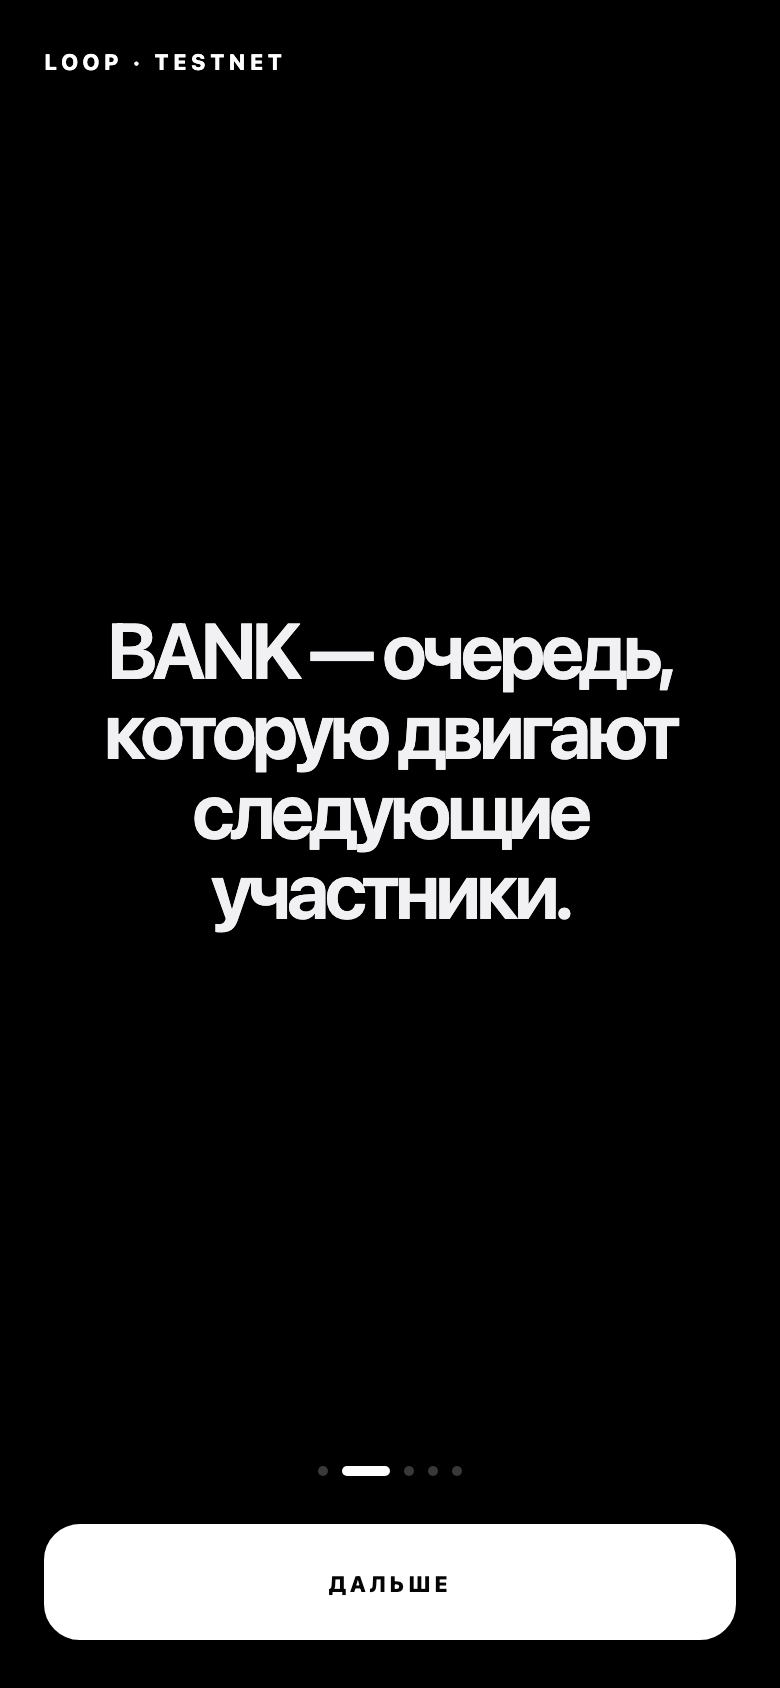
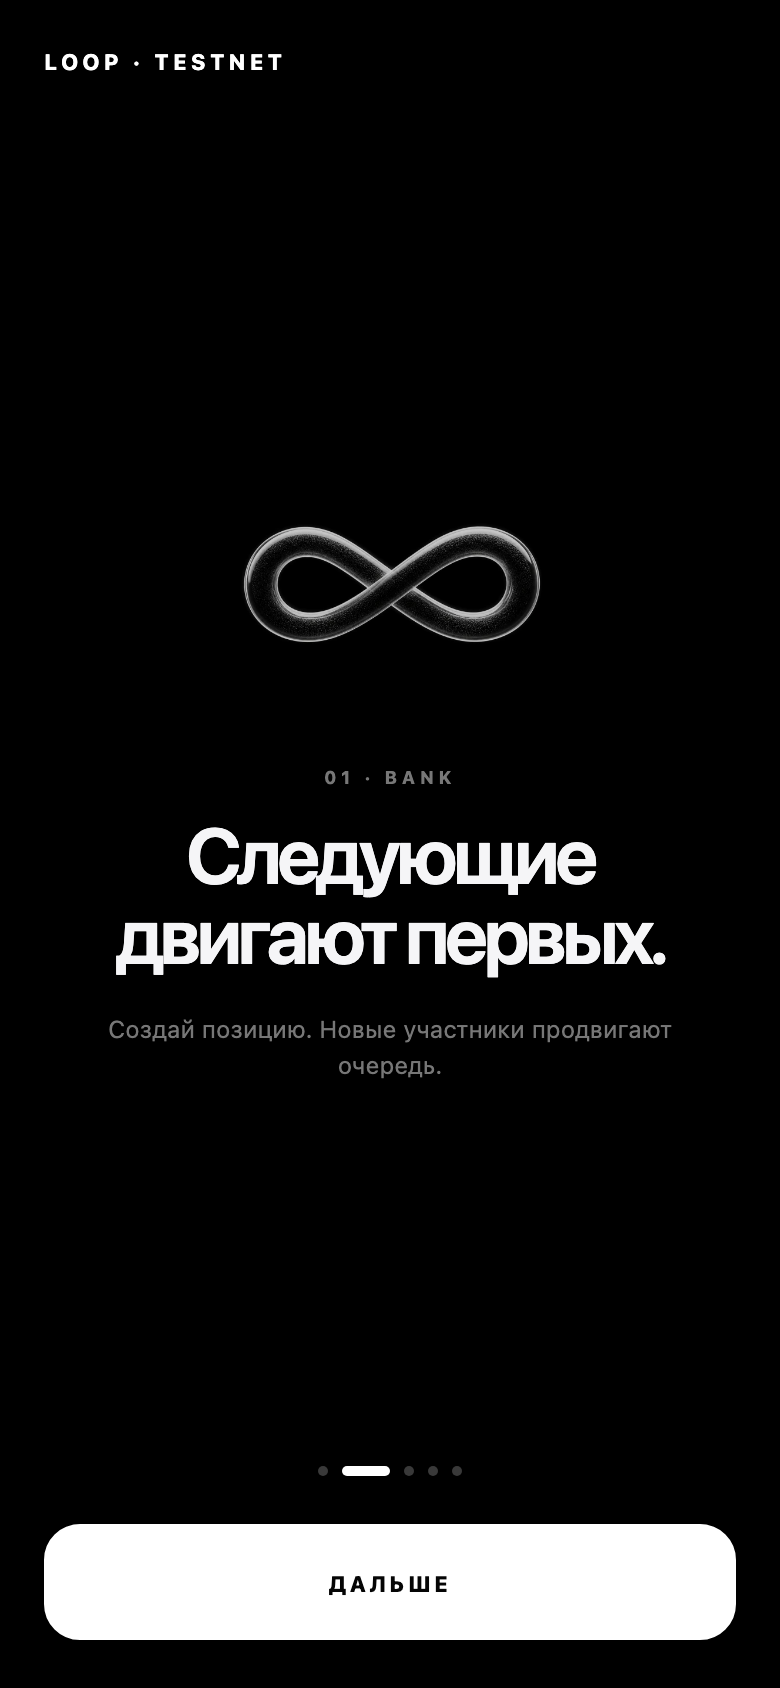
fix(web): stabilize keyboard layout and refine onboarding

Changed region(s): [[0.1231, 0.3081, 0.8615, 0.6469]]

diff --git a/apps/web/src/styles.css b/apps/web/src/styles.css
@@ -127,13 +127,41 @@ a:focus-visible {
 .story-stage {
   display: grid;
   flex: 1;
+  min-width: 0;
+  padding: 0;
+  border: 0;
+  background: transparent;
+  color: inherit;
   cursor: pointer;
   place-items: center;
+  text-align: center;
 }
 
-.story-stage h1 {
-  max-width: 380px;
+.story-copy {
+  display: grid;
+  width: 100%;
+  justify-items: center;
+}
+
+.story-mark {
+  display: block;
+  width: min(48vw, 190px);
+  margin: 0 0 30px;
+  opacity: 0.78;
+  pointer-events: none;
+}
+
+.story-signal {
   margin: 0;
+  color: #777;
+  font-size: 9px;
+  font-weight: 760;
+  letter-spacing: 0.24em;
+}
+
+.story-copy h1 {
+  max-width: 380px;
+  margin: 14px 0 0;
   font-size: clamp(34px, 10vw, 48px);
   font-weight: 620;
   letter-spacing: -0.065em;
@@ -141,8 +169,17 @@ a:focus-visible {
   text-align: center;
 }
 
-.story-stage h1 span {
+.story-copy h1 span {
   display: block;
+}
+
+.story-detail {
+  max-width: 310px;
+  margin: 18px 0 0;
+  color: #777;
+  font-size: 12px;
+  line-height: 1.48;
+  text-align: center;
 }
 
 .story-footer {
@@ -415,27 +452,6 @@ a:focus-visible {
 .bank-flow-waiting .bank-flow-step {
   flex: 1;
   align-content: center;
-}
-
-.keyboard-open .bank-flow-amount {
-  padding-top: calc(var(--safe-top) + 14px);
-}
-
-.keyboard-open .bank-flow-amount .sheet-title-row {
-  margin-bottom: 12px;
-}
-
-.keyboard-open .bank-flow-amount .amount-input {
-  margin: 10px 0 6px;
-}
-
-.keyboard-open .bank-flow-amount .amount-input input {
-  padding: 4px 0 8px;
-  font-size: 56px;
-}
-
-.keyboard-open .bank-flow-amount .wizard-step > .primary-button {
-  margin-top: 10px;
 }
 
 .sheet-backdrop {

diff --git a/apps/web/src/components/Onboarding.tsx b/apps/web/src/components/Onboarding.tsx
@@ -4,11 +4,31 @@ import { useEffect, useState } from 'react';
 import { haptic, setBackAction } from '../telegram';
 
 const stories = [
-  'Два режима.\nДве разные игры.',
-  'BANK — очередь,\nкоторую двигают следующие участники.',
-  'DUEL — прямой вызов\nмежду двумя игроками.',
-  'Все расчёты подтверждаются\nв TON testnet.',
-  'Добро пожаловать\nв LOOP.',
+  {
+    signal: 'LOOP · TESTNET',
+    title: 'Цикл уже\nначался.',
+    detail: 'BANK и DUEL — два режима одной живой системы.',
+  },
+  {
+    signal: '01 · BANK',
+    title: 'Следующие\nдвигают первых.',
+    detail: 'Создай позицию. Новые участники продвигают очередь.',
+  },
+  {
+    signal: '02 · DUEL',
+    title: 'Кто-то должен\nпринять вызов.',
+    detail: 'Задай условия, найди соперника или пригласи человека напрямую.',
+  },
+  {
+    signal: '03 · TON',
+    title: 'Каждое действие\nоставляет след.',
+    detail: 'Кошелёк остаётся у тебя. Транзакции подтверждаются в TON testnet.',
+  },
+  {
+    signal: '04 · ВХОД',
+    title: 'Теперь ты знаешь\nдостаточно.',
+    detail: 'Начни цикл в BANK или открой DUEL.',
+  },
 ];
 
 export function Onboarding({
@@ -19,6 +39,7 @@ export function Onboarding({
   initialPage?: number;
 }) {
   const [page, setPage] = useState(initialPage);
+  const story = stories[page];
 
   useEffect(() => setBackAction(page ? () => setPage((value) => value - 1) : undefined), [page]);
 
@@ -31,29 +52,35 @@ export function Onboarding({
   return (
     <main className="onboarding">
       <span className="onboarding-brand">LOOP · TESTNET</span>
-      <div className="story-stage" onClick={next} role="presentation">
+      <button className="story-stage" onClick={next} aria-label="Продолжить историю LOOP">
         <AnimatePresence mode="wait">
-          <motion.h1
+          <motion.div
+            className="story-copy"
             key={page}
             initial={{ opacity: 0, y: 18, filter: 'blur(8px)' }}
             animate={{ opacity: 1, y: 0, filter: 'blur(0px)' }}
             exit={{ opacity: 0, y: -12, filter: 'blur(6px)' }}
-            transition={{ type: 'spring', stiffness: 180, damping: 24 }}
+            transition={{ duration: 0.24, ease: [0.22, 1, 0.36, 1] }}
           >
-            {stories[page].split('\n').map((line) => (
-              <span key={line}>{line}</span>
-            ))}
-          </motion.h1>
+            <img className="story-mark" src="/assets/loop-loader.webp" alt="" />
+            <p className="story-signal">{story.signal}</p>
+            <h1 aria-label={story.title.replace('\n', ' ')}>
+              {story.title.split('\n').map((line) => (
+                <span key={line}>{line}</span>
+              ))}
+            </h1>
+            <p className="story-detail">{story.detail}</p>
+          </motion.div>
         </AnimatePresence>
-      </div>
+      </button>
       <div className="story-footer">
         <div className="story-dots" aria-label={`Экран ${page + 1} из ${stories.length}`}>
           {stories.map((story, index) => (
-            <span key={story} className={index === page ? 'active' : ''} />
+            <span key={story.signal} className={index === page ? 'active' : ''} />
           ))}
         </div>
         <button className="primary-button" onClick={next}>
-          {page === stories.length - 1 ? 'ВОЙТИ' : 'ДАЛЬШЕ'}
+          {page === stories.length - 1 ? 'ВОЙТИ В LOOP' : page === 0 ? 'ПРОДОЛЖИТЬ' : 'ДАЛЬШЕ'}
         </button>
       </div>
     </main>

diff --git a/apps/web/src/components/Onboarding.test.tsx b/apps/web/src/components/Onboarding.test.tsx
@@ -1,0 +1,31 @@
+import { cleanup, fireEvent, render, screen } from '@testing-library/react';
+import { afterEach, describe, expect, it, vi } from 'vitest';
+
+import { Onboarding } from './Onboarding';
+
+describe('Onboarding', () => {
+  afterEach(cleanup);
+
+  it('pairs an intriguing opening with a plain-language explanation', () => {
+    render(<Onboarding onDone={vi.fn()} />);
+
+    expect(screen.getByRole('heading', { name: 'Цикл уже начался.' })).toBeInTheDocument();
+    expect(screen.getByText('BANK и DUEL — два режима одной живой системы.')).toBeInTheDocument();
+    expect(screen.getByRole('button', { name: 'ПРОДОЛЖИТЬ' })).toBeInTheDocument();
+  });
+
+  it('explains BANK and completes from the final chapter', () => {
+    const onDone = vi.fn();
+    const { unmount } = render(<Onboarding initialPage={1} onDone={onDone} />);
+
+    expect(screen.getByRole('heading', { name: 'Следующие двигают первых.' })).toBeInTheDocument();
+    expect(
+      screen.getByText('Создай позицию. Новые участники продвигают очередь.'),
+    ).toBeInTheDocument();
+
+    unmount();
+    render(<Onboarding initialPage={4} onDone={onDone} />);
+    fireEvent.click(screen.getByRole('button', { name: 'ВОЙТИ В LOOP' }));
+    expect(onDone).toHaveBeenCalledOnce();
+  });
+});

diff --git a/apps/web/e2e/loop.spec.ts b/apps/web/e2e/loop.spec.ts
@@ -24,6 +24,11 @@ test('BANK, DUEL and PROFILE remain usable above the Telegram tab bar', async ({
   await expect(page.locator('.bank-flow-screen')).toHaveCSS('transform', 'none');
   await expect(page.locator('.tab-bar')).toHaveCSS('visibility', 'hidden');
   const bankAmount = page.getByLabel('Сумма в GRAM');
+  const titleBeforeKeyboard = await page
+    .getByRole('heading', { name: 'Новая позиция' })
+    .boundingBox();
+  const inputBeforeKeyboard = await bankAmount.boundingBox();
+  const nextBeforeKeyboard = await page.getByRole('button', { name: /ДАЛЬШЕ/ }).boundingBox();
   await bankAmount.fill('2');
   await expect(page.locator('.tab-bar')).toHaveCSS('visibility', 'hidden');
   const bankViewport = page.viewportSize()!;
@@ -31,12 +36,20 @@ test('BANK, DUEL and PROFILE remain usable above the Telegram tab bar', async ({
   const inputBox = await bankAmount.boundingBox();
   const nextBox = await page.getByRole('button', { name: /ДАЛЬШЕ/ }).boundingBox();
   const closeBox = await page.getByRole('button', { name: 'Закрыть' }).boundingBox();
+  const titleBox = await page.getByRole('heading', { name: 'Новая позиция' }).boundingBox();
   expect(inputBox).not.toBeNull();
   expect(nextBox).not.toBeNull();
   expect(closeBox).not.toBeNull();
-  expect(closeBox!.y).toBeGreaterThanOrEqual(84);
-  expect(inputBox!.y + inputBox!.height).toBeLessThanOrEqual(404);
-  expect(nextBox!.y + nextBox!.height).toBeLessThanOrEqual(404);
+  expect(titleBox).not.toBeNull();
+  expect(titleBeforeKeyboard).not.toBeNull();
+  expect(inputBeforeKeyboard).not.toBeNull();
+  expect(nextBeforeKeyboard).not.toBeNull();
+  expect(closeBox!.y).toBeGreaterThanOrEqual(100);
+  expect(titleBox!.y).toBeCloseTo(titleBeforeKeyboard!.y, 0);
+  expect(inputBox!.y).toBeCloseTo(inputBeforeKeyboard!.y, 0);
+  expect(nextBox!.y).toBeCloseTo(nextBeforeKeyboard!.y, 0);
+  await page.getByRole('button', { name: /ДАЛЬШЕ/ }).scrollIntoViewIfNeeded();
+  await expect(page.getByRole('button', { name: /ДАЛЬШЕ/ })).toBeVisible();
   await page.setViewportSize(bankViewport);
   await bankAmount.blur();
   await expect(page.locator('.tab-bar')).toHaveCSS('visibility', 'hidden');

diff --git a/apps/web/src/viewport.ts b/apps/web/src/viewport.ts
@@ -20,6 +20,7 @@ function currentViewport() {
 export function installViewportBehavior(): () => void {
   const root = document.documentElement;
   let stableHeight = Math.max(window.innerHeight, currentViewport().height);
+  let protectedTopInset = 0;
   let blurTimer: number | undefined;
   let keyboardSettling = false;
   let subscribedTelegram: TelegramWebApp | undefined;
@@ -35,7 +36,12 @@ export function installViewportBehavior(): () => void {
         side === 'top' && app?.isFullscreen ? FULLSCREEN_CONTROLS_TOP_INSET_PX : 0,
       );
 
-    root.style.setProperty('--loop-safe-area-inset-top', `${inset('top')}px`);
+    // Telegram can briefly report a smaller top inset while iOS opens its keyboard
+    // or changes fullscreen state. A session must never move content back under the
+    // native controls after a larger safe boundary has already been established.
+    protectedTopInset = Math.max(protectedTopInset, inset('top'));
+
+    root.style.setProperty('--loop-safe-area-inset-top', `${protectedTopInset}px`);
     root.style.setProperty('--loop-safe-area-inset-right', `${inset('right')}px`);
     root.style.setProperty('--loop-safe-area-inset-bottom', `${inset('bottom')}px`);
     root.style.setProperty('--loop-safe-area-inset-left', `${inset('left')}px`);

diff --git a/apps/web/src/store.ts b/apps/web/src/store.ts
@@ -140,7 +140,7 @@ export const useLoopStore = create<LoopState>((set, get) => ({
   invite: null,
   error: null,
   showOnboarding: false,
-  onboardingPage: mockScreen === 'onboarding-duel' ? 2 : 1,
+  onboardingPage: mockScreen === 'onboarding-bank' ? 1 : mockScreen === 'onboarding-duel' ? 2 : 0,
 
   async bootstrap() {
     const started = performance.now();
@@ -159,7 +159,10 @@ export const useLoopStore = create<LoopState>((set, get) => ({
           duels: mockScreen === 'duel-result' ? [demoDuel] : [],
           invite: mockScreen === 'duel-invite' ? demoInvite : null,
           loading: false,
-          showOnboarding: mockScreen === 'onboarding-bank' || mockScreen === 'onboarding-duel',
+          showOnboarding:
+            mockScreen === 'onboarding' ||
+            mockScreen === 'onboarding-bank' ||
+            mockScreen === 'onboarding-duel',
         });
         return;
       }

diff --git a/apps/web/src/viewport.test.ts b/apps/web/src/viewport.test.ts
@@ -91,6 +91,13 @@ describe('Telegram keyboard viewport behavior', () => {
     expect(document.documentElement.style.getPropertyValue('--loop-safe-area-inset-top')).toBe(
       '72px',
     );
+    window.Telegram.WebApp.isFullscreen = false;
+    window.Telegram.WebApp.safeAreaInset = { top: 44, right: 0, bottom: 34, left: 0 };
+    window.Telegram.WebApp.contentSafeAreaInset = { top: 56, right: 0, bottom: 0, left: 0 };
+    onFullscreenChanged?.();
+    expect(document.documentElement.style.getPropertyValue('--loop-safe-area-inset-top')).toBe(
+      '72px',
+    );
     cleanup();
   });
 });